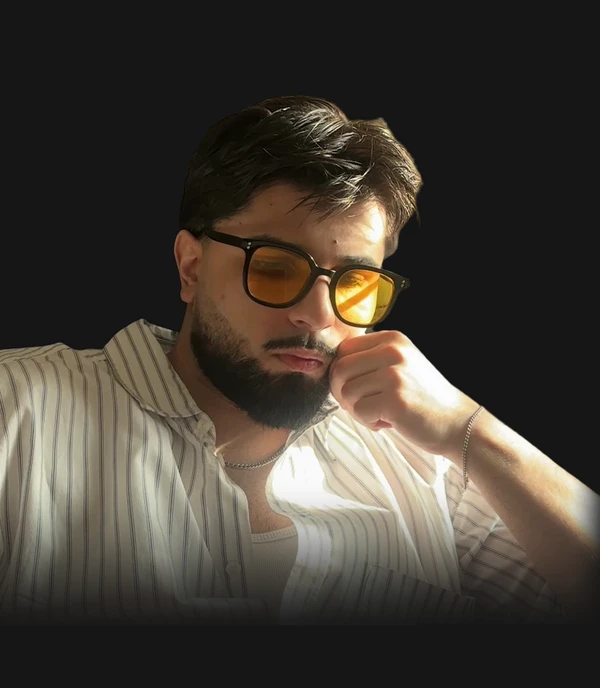
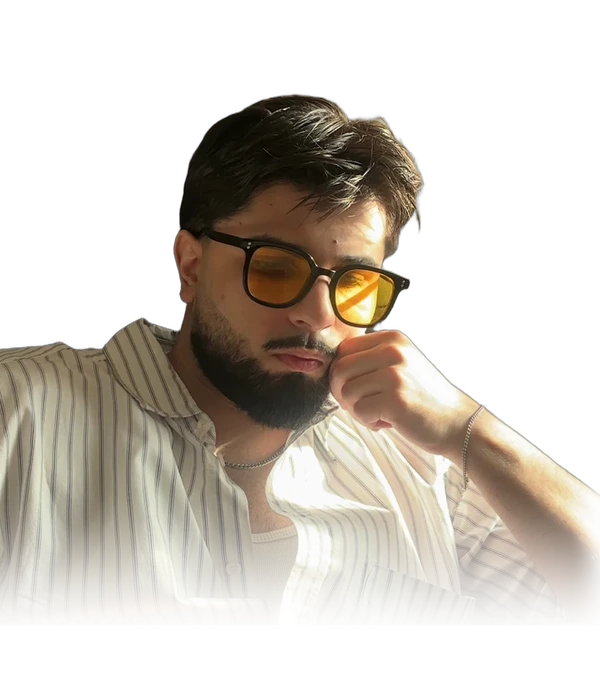
Partner slot: transparent portrait and new quote

diff --git a/src/data/home.ts b/src/data/home.ts
@@ -100,7 +100,7 @@ export const processSteps = [
 export const testimonials: { quote: string; name: string; role: string; image: string; href?: string }[] = [
   {
     quote:
-      'Tashiv has the eye. I bring the build and the AI. Nova makes the brand look right, Redolanse makes sure every call it brings in gets answered.',
+      "I rebuilt this site with Tashiv, so I know how he works. He handles the design, I handle the build and the AI, and we go back and forth until it's right.",
     name: 'Arham Hafeez',
     role: 'Partner. Founder, Redolanse',
     image: '/images/partners/arham-hafeez.webp',
